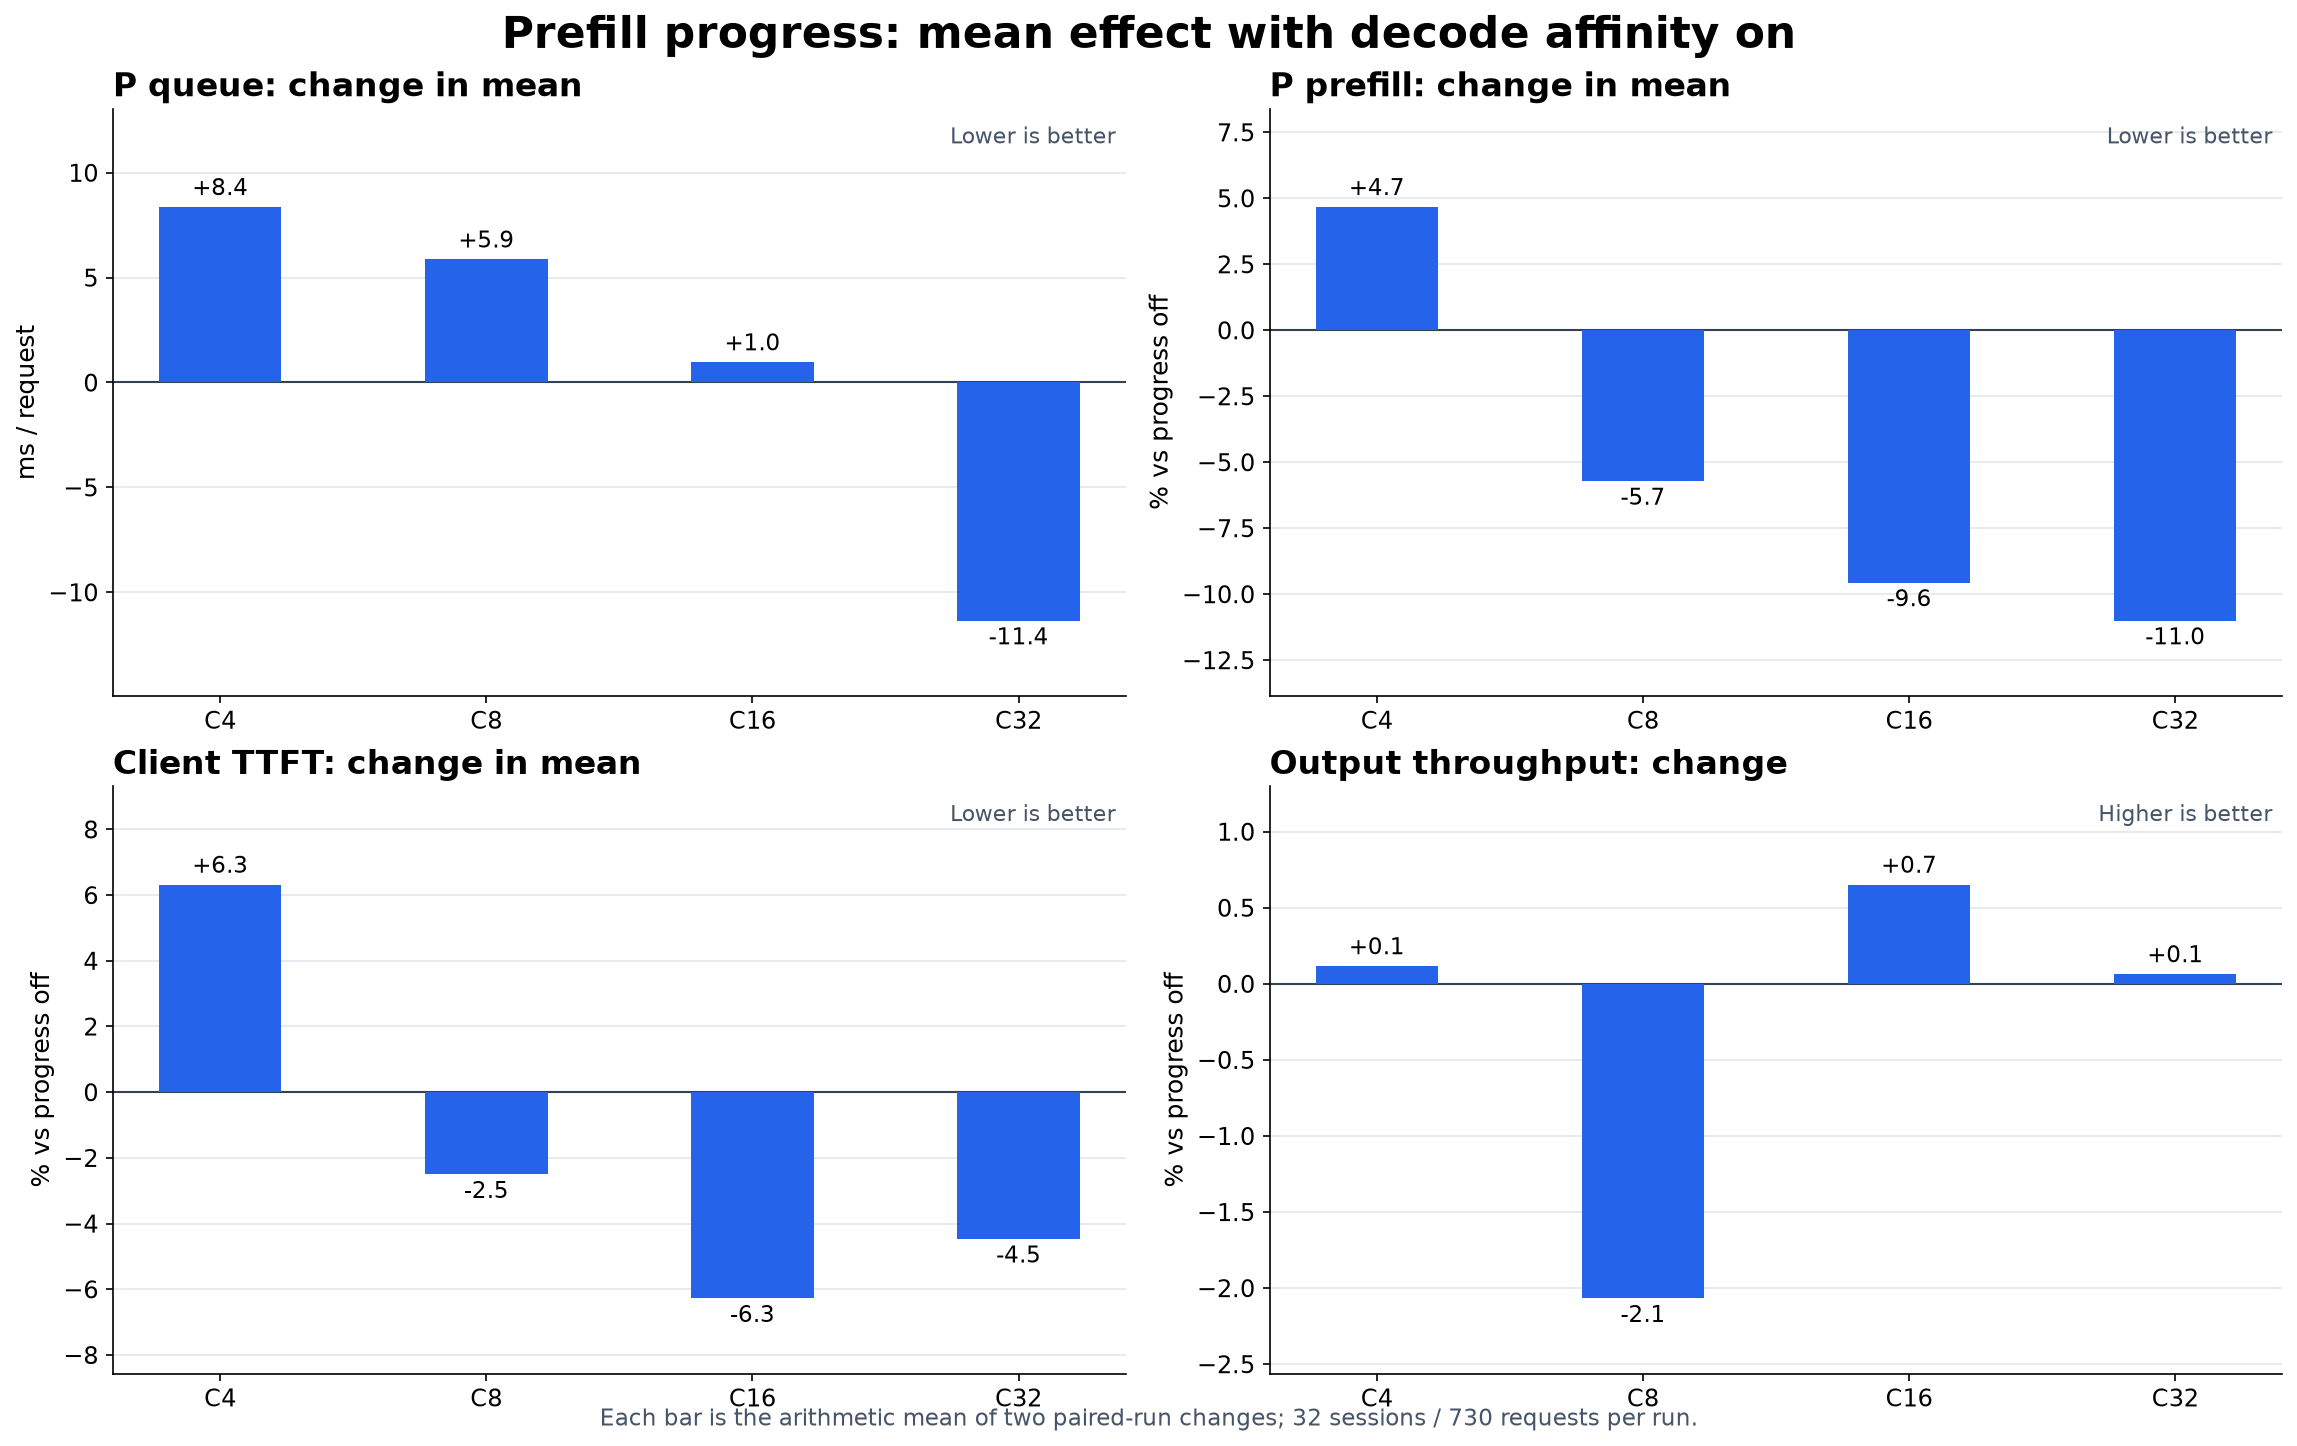
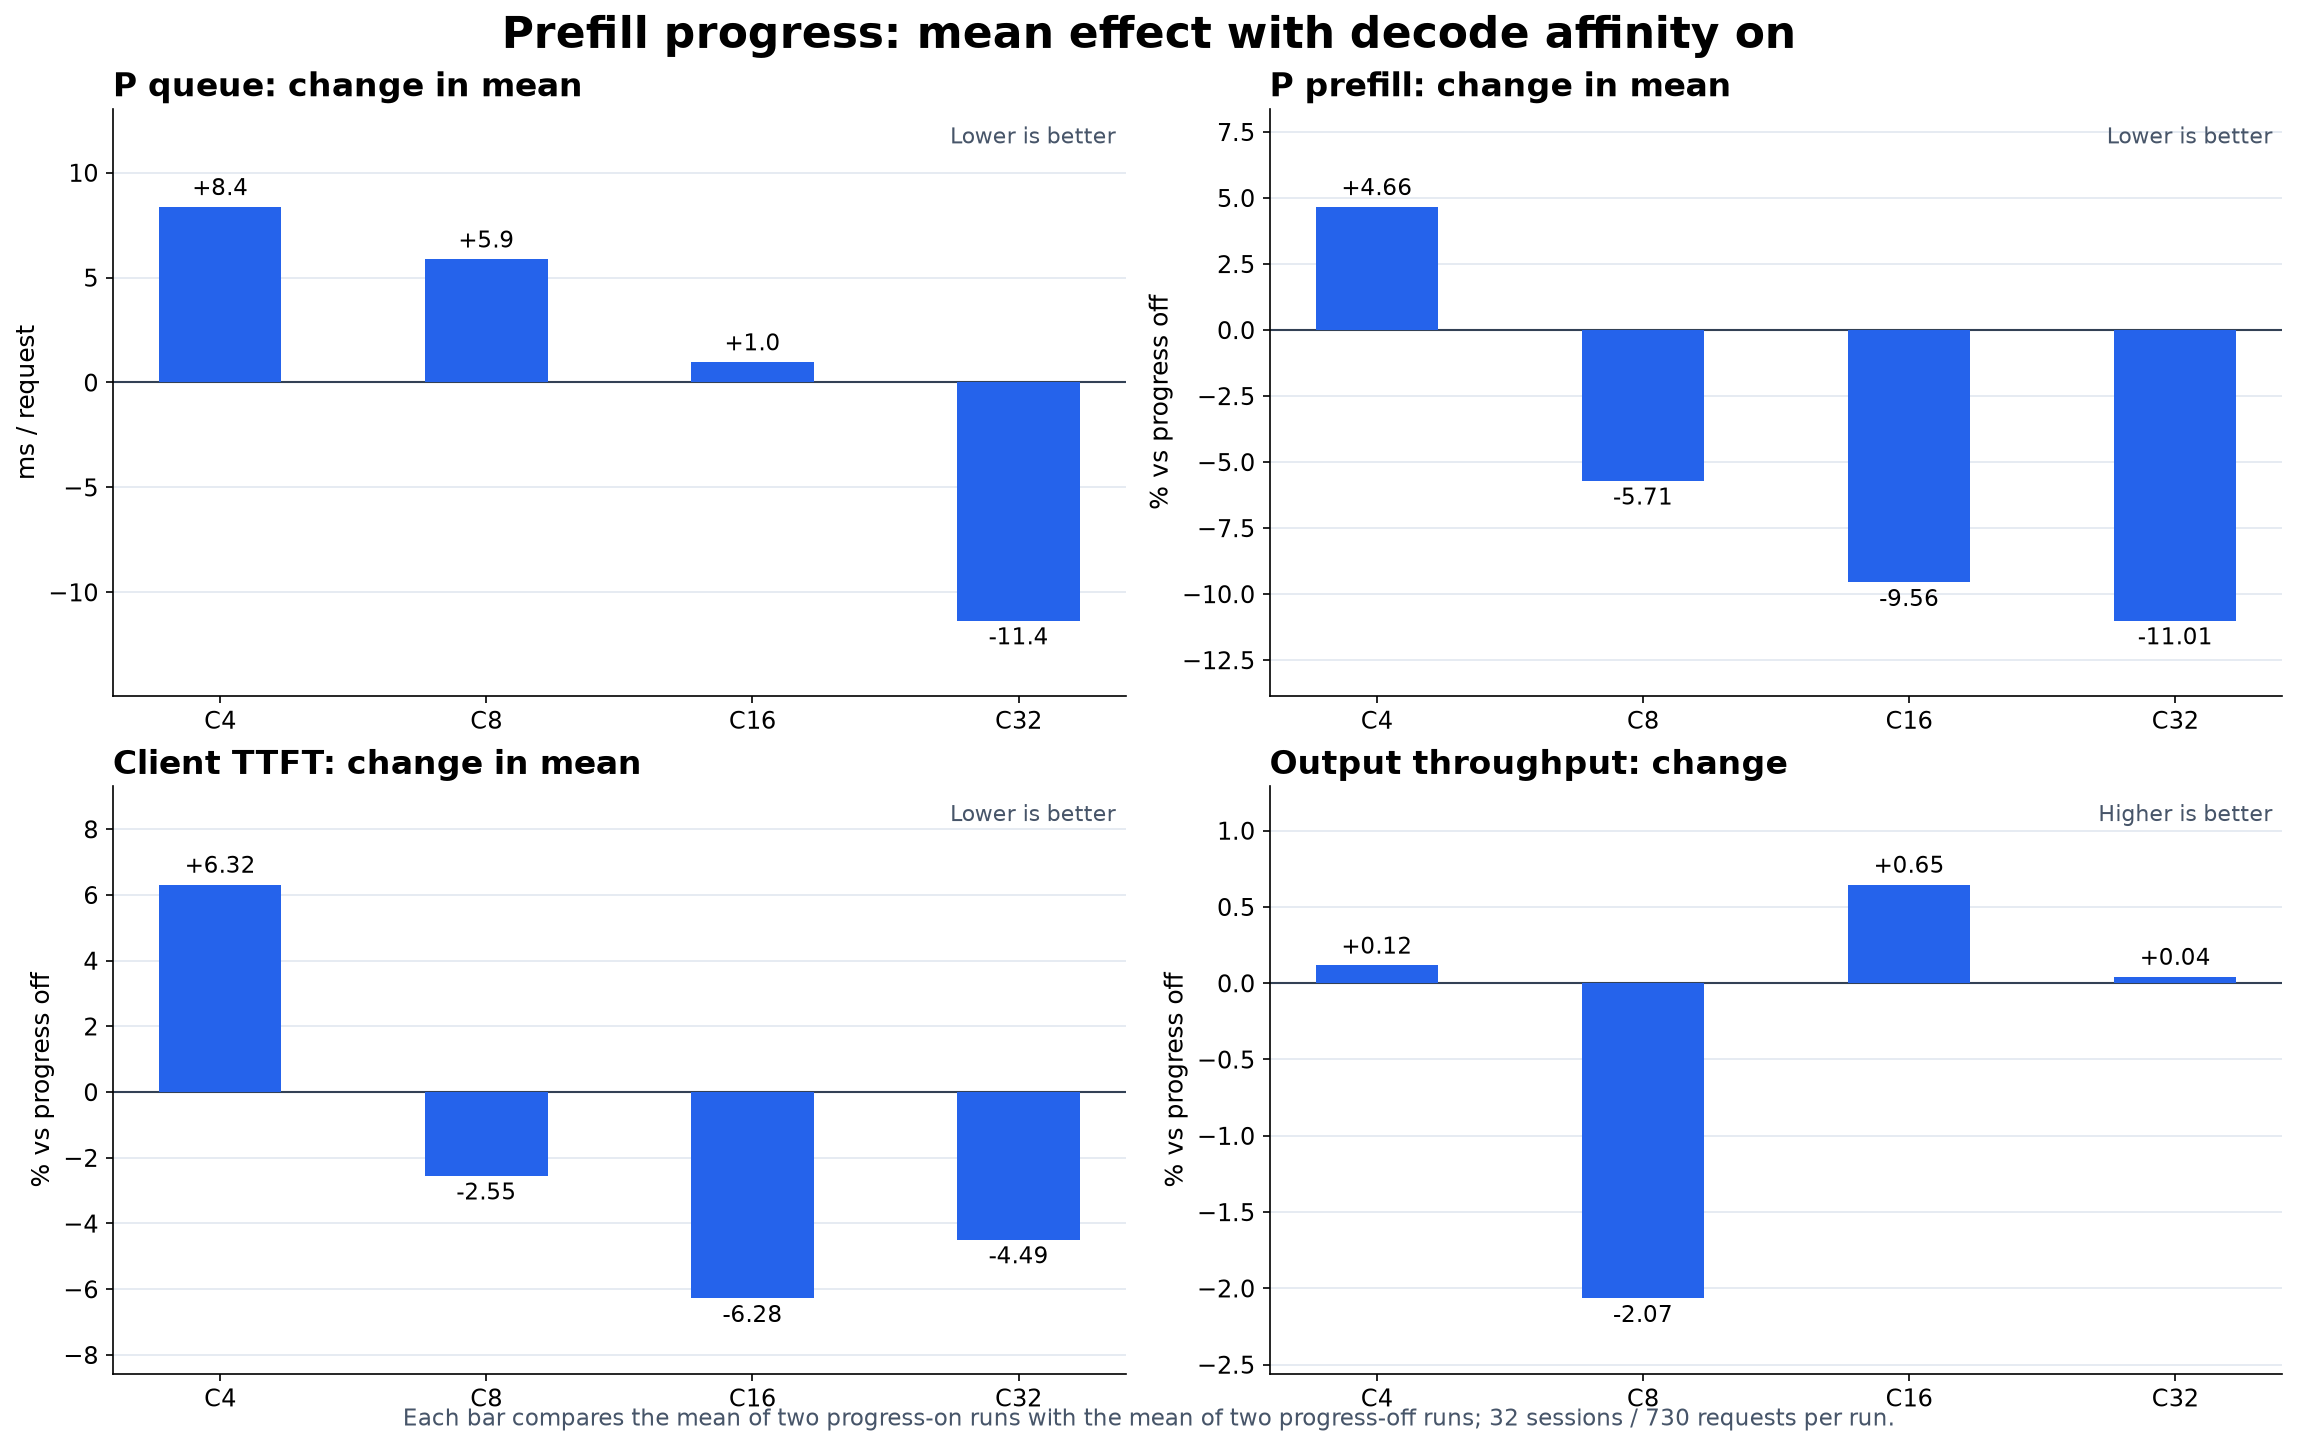
[Docs] Align progress chart with run means

diff --git a/make_figures.py b/make_figures.py
@@ -47,14 +47,12 @@ panels = [
 for ax, (title, key, scale, ylabel, direction) in zip(axes.flat, panels):
     vals = []
     for cap in CAPS:
-        changes = []
-        for rep in (1, 2):
-            a = f(record(cap, 'kv_aware_aff', rep), key)
-            b = f(record(cap, 'kv_aware_aff_progress', rep), key)
-            changes.append((b - a) if scale == 'absolute' else (b / a - 1) * 100)
-        vals.append(sum(changes) / len(changes))
+        a = sum(f(record(cap, 'kv_aware_aff', rep), key) for rep in (1, 2)) / 2
+        b = sum(f(record(cap, 'kv_aware_aff_progress', rep), key) for rep in (1, 2)) / 2
+        vals.append((b - a) if scale == 'absolute' else (b / a - 1) * 100)
     bars = ax.bar(x, vals, width=.46, color='#2563eb', zorder=3)
-    ax.bar_label(bars, labels=[f'{v:+.1f}' for v in vals], padding=3, fontsize=11)
+    labels = [f'{v:+.1f}' if scale == 'absolute' else f'{v:+.2f}' for v in vals]
+    ax.bar_label(bars, labels=labels, padding=3, fontsize=11)
     ax.axhline(0, color='#334155', linewidth=1)
     ax.grid(axis='y', color='#e2e8f0', linewidth=.8, zorder=0)
     ax.set_title(title, loc='left')
@@ -64,7 +62,7 @@ for ax, (title, key, scale, ylabel, direction) in zip(axes.flat, panels):
             fontsize=10.5, color='#475569')
     lo, hi = ax.get_ylim()
     ax.set_ylim(lo - (hi - lo) * .12, hi + (hi - lo) * .17)
-fig.text(.5, -.005, 'Each bar is the arithmetic mean of two paired-run changes; '
+fig.text(.5, -.005, 'Each bar compares the mean of two progress-on runs with the mean of two progress-off runs; '
          '32 sessions / 730 requests per run.', ha='center', fontsize=11, color='#475569')
 fig.savefig(OUT / 'progress-impact.png', dpi=150, bbox_inches='tight')
 plt.close(fig)

diff --git a/README.md b/README.md
@@ -5,7 +5,7 @@ benchmark results described in https://github.com/vllm-project/router/pull/469.
 No prompts, model weights, or raw dataset are included.
 
 - `figures/progress-impact.png`: progress on versus off with decode affinity;
-  each bar averages the changes from two independent paired runs.
+  each bar compares the means of two independent runs per setting.
 - `figures/five-policy-end-to-end.png`: five-policy comparison; each KV
   variant is the mean of its two runs, and Cache has one run.
 - `data/c4-worker-decomposition.csv`: C4 per-worker queue and prefill
